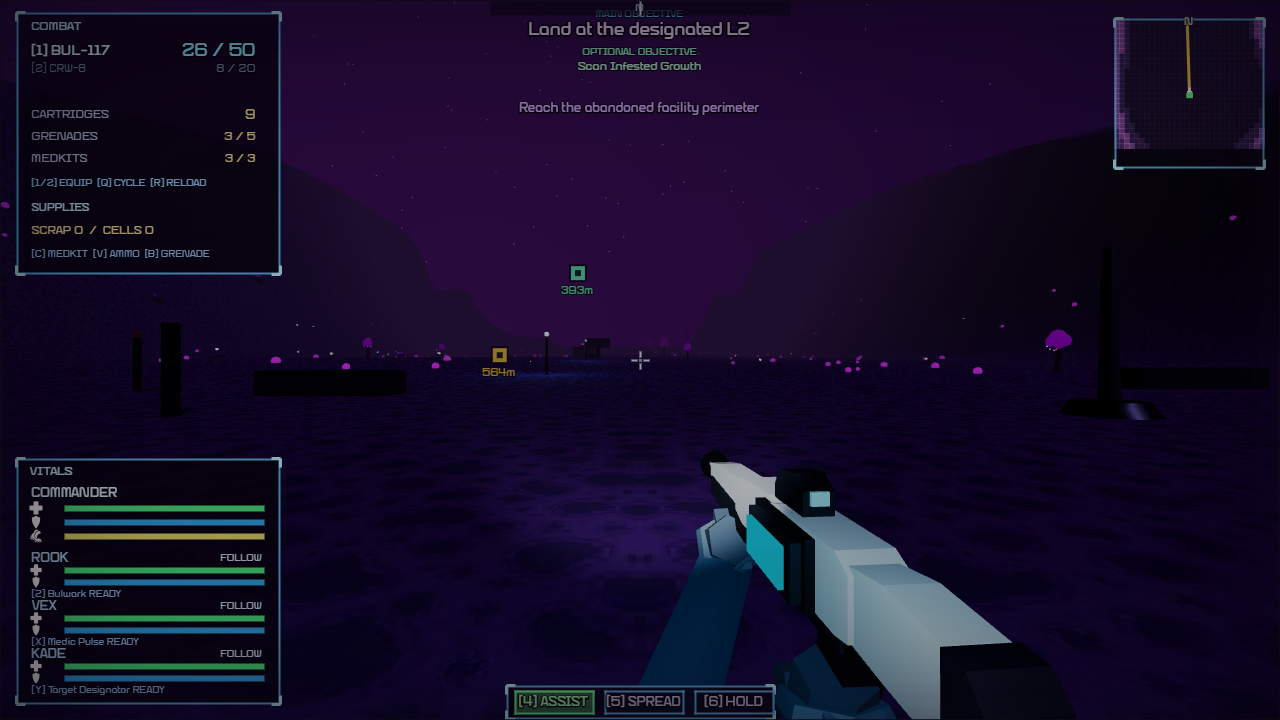
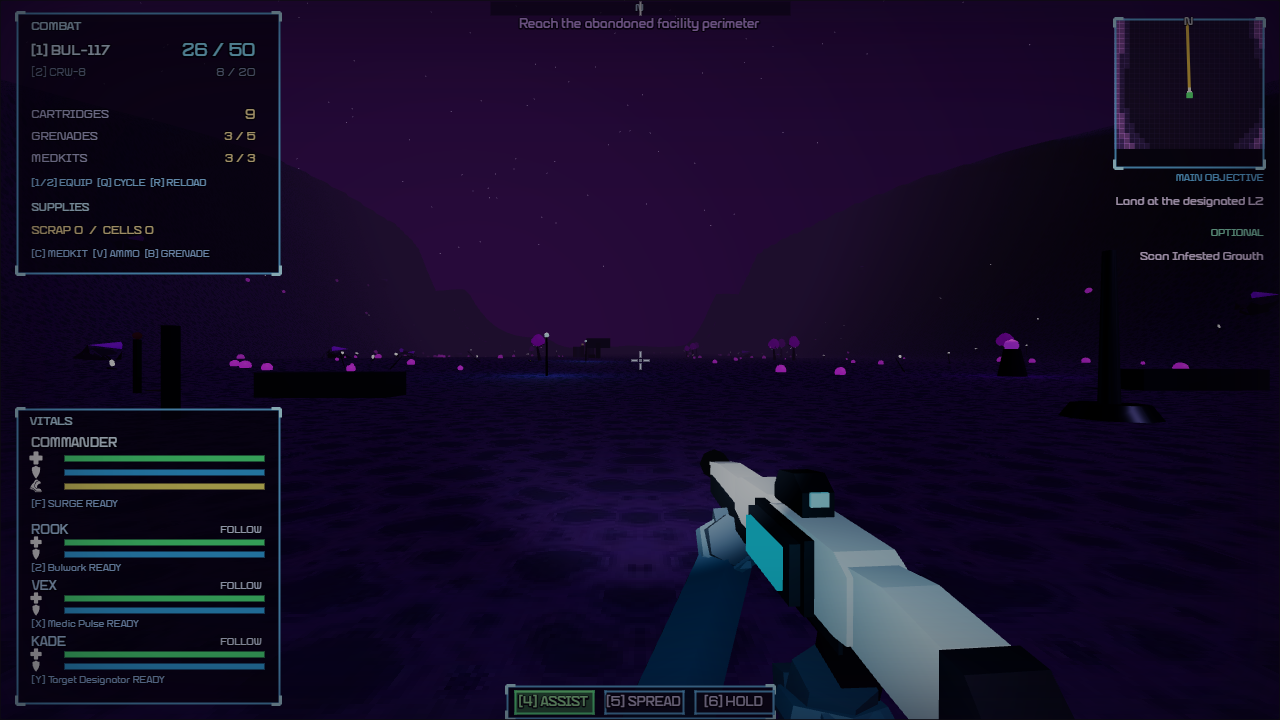
fix: refine arc display and minimap hud

diff --git a/chargefront.html b/chargefront.html
@@ -4692,11 +4692,11 @@ function animateReloadPart(weapon, progress) {
             part.rotation.z = base.rotation.z + seat(-0.18, 0.04, insert, lock);
         }
         part.visible = progress < 0.43 || progress > 0.49;
-        const lockPulse = Math.sin(stage(0.74, 1) * Math.PI);
-        part.scale.setScalar(1 + lockPulse * 0.14);
+        // Magazine display stays a constant flat glow — no scale/brightness pulse here.
+        // Only the front energy channel (reloadEnergy -> reloadLights/channelBolts) reacts.
         model.userData.reloadEnergy = progress < 0.46
             ? 1 - stage(0.10, 0.38) * 0.88
-            : 0.12 + stage(0.62, 0.92) * 0.88 + lockPulse * 0.22;
+            : 0.12 + stage(0.62, 0.92) * 0.88;
         for (let i = 0; i < model.userData.reloadLights.length; i++) {
             model.userData.reloadLights[i].material.opacity = Math.min(1, model.userData.reloadLightOpacity[i] * model.userData.reloadEnergy);
         }
@@ -9521,7 +9521,7 @@ function drawObjectiveProgress(right, y, width) {
 }
 function drawObjectiveStack(W) {
     const width = Math.min(300, W * 0.26), right = W - 16, left = right - width;
-    let y = 202; // below the unchanged 150 px minimap and its optional legend
+    let y = 178; // just below the unchanged 150 px minimap (legend row removed)
     for (const kind of ['main', 'optional']) {
         if (!objectiveHUD.rows.some(row => row.kind === kind)) continue;
         hudText(kind === 'main' ? 'MAIN OBJECTIVE' : 'OPTIONAL', LJS.vec2(right, y), 10, kind === 'main' ? LJS.rgb(0.42, 0.78, 1) : LJS.rgb(0.58, 0.92, 0.78), 'right');
@@ -10373,19 +10373,6 @@ function drawMinimap(W, H) {
             const pc = pickupCols[p.kind] || pickupCols.scrap;
             dot(p.pos.x, p.pos.y, pc, 4);
         }
-        /* legend strip under the minimap */
-        const ly = my + size + 10;
-        const lx0 = mx;
-        const lg = (x, col, label) => {
-            LJS.drawRect(LJS.vec2(x, ly), LJS.vec2(7, 7), col, 0, false, true);
-            hudText(label, LJS.vec2(x + 11, ly), 9, LJS.rgb(0.78, 0.86, 1), 'left');
-        };
-        lg(lx0 + 4, LJS.rgb(1, 0.75, 0.3), 'R');
-        lg(lx0 + 26, LJS.rgb(0.45, 1, 0.7), 'V');
-        lg(lx0 + 48, LJS.rgb(0.9, 0.78, 0.4), 'S');
-        lg(lx0 + 70, LJS.rgb(0.45, 0.78, 1), 'C');
-        lg(lx0 + 92, LJS.rgb(1, 0.6, 0.3), 'G');
-        lg(lx0 + 114, LJS.rgb(0.4, 1, 0.55), 'D');
     }
     /* sci-fi frame */
     const mAccent = LJS.rgb(0.42, 0.78, 1, 0.9);
